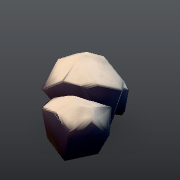
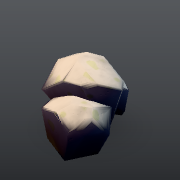
Lichen, Greystone as the default stone, and redrawn rock pictures
Lichen, under Surface, prints small pale patches into the stone picture. It
adds no faces, and it is 0 on saved rocks, so their pictures stay as they were.

New rocks start in Greystone, a slightly darker grey so they sit closer to the
brightness of the trees. Preset pictures are redrawn to match.

diff --git a/frontend/src/assets/shared/stone-texture.ts b/frontend/src/assets/shared/stone-texture.ts
@@ -33,6 +33,12 @@ const CRACK_DARK = 0.24
 const PIT_DEPTH = 1.6
 const CRACK_DEPTH = 0.6
 const RELIEF_STEEPNESS = 1.6
+/** Lichen: pale patches on bare stone, printed as a yellow-green tint that darkens the stone. */
+const LICHEN_CELLS = 7
+const LICHEN_TINT: readonly [number, number, number] = [0.8, 0.9, 0.5]
+/** Spots begin above LICHEN_FROM and are whole by LICHEN_TO; the Lichen setting scales them. */
+const LICHEN_FROM = 0.72
+const LICHEN_TO = 0.8
 
 interface Grain {
     /** How dark each pixel is, 0 to 1. */
@@ -41,6 +47,7 @@ interface Grain {
 }
 
 const grains = new Map<number, Grain>()
+const lichens = new Map<number, Float32Array>()
 const textures = new Map<string, THREE.DataTexture>()
 const reliefs = new Map<string, THREE.DataTexture>()
 
@@ -157,6 +164,18 @@ function makeGrain(size: number): Grain {
     return {darkness, heights}
 }
 
+/** Where lichen patches are, 0 to 1, from their own noise so the grain does not change. */
+function lichenOf(size: number): Float32Array {
+    let made = lichens.get(size)
+
+    if (!made) {
+        made = mottle(LICHEN_CELLS, createSeededRandom(TEXTURE_SEED + 7), size)
+        lichens.set(size, made)
+    }
+
+    return made
+}
+
 function grainOf(size: number): Grain {
     let made = grains.get(size)
 
@@ -183,10 +202,14 @@ function configured(texture: THREE.DataTexture): THREE.DataTexture {
 /** Grain as a slider stop, so each stop is made once. */
 const stopOf = (strength: number) => Math.round(Math.min(Math.max(strength, 0), 1) * 20) / 20
 
-/** The stone picture at a Grain strength, 0 to 1. Nearly white, to multiply the stone's colours. */
-export function getStoneTexture(strength: number, size = PICTURE_SIZE): THREE.DataTexture {
+/**
+ * The stone picture at a Grain strength, 0 to 1, with lichen at a strength too. Nearly white,
+ * to multiply the stone's colours. Lichen left at 0 is the picture it always was.
+ */
+export function getStoneTexture(strength: number, size = PICTURE_SIZE, lichen = 0): THREE.DataTexture {
     const stop = stopOf(strength)
-    const key = `${stop}:${size}`
+    const lichenStop = stopOf(lichen)
+    const key = lichenStop > 0 ? `${stop}:${size}:${lichenStop}` : `${stop}:${size}`
     const cached = textures.get(key)
 
     if (cached) {
@@ -194,6 +217,7 @@ export function getStoneTexture(strength: number, size = PICTURE_SIZE): THREE.Da
     }
 
     const {darkness} = grainOf(size)
+    const spots = lichenStop > 0 ? lichenOf(size) : null
     const data = new Uint8Array(size * size * 4).fill(255)
     // Mottling darkens and lightens about a middle, so the stone keeps its own value overall.
     const middle = 0.06
@@ -204,14 +228,22 @@ export function getStoneTexture(strength: number, size = PICTURE_SIZE): THREE.Da
         data[index * 4] = value
         data[index * 4 + 1] = value
         data[index * 4 + 2] = value
+
+        if (spots) {
+            const cover = smooth(Math.min(1, Math.max(0, (spots[index] - LICHEN_FROM) / (LICHEN_TO - LICHEN_FROM)))) * lichenStop
+
+            for (let channel = 0; channel < 3; channel++) {
+                data[index * 4 + channel] = Math.round(data[index * 4 + channel] * (1 - cover * (1 - LICHEN_TINT[channel])))
+            }
+        }
     }
 
     const texture = new THREE.DataTexture(data, size, size, THREE.RGBAFormat)
 
     texture.colorSpace = THREE.SRGBColorSpace
     // What it shows, so files in a set that share it can share a material.
-    texture.name = `stone_${Math.round(stop * 100)}`
-    texture.userData.atSize = (larger: number) => getStoneTexture(strength, larger)
+    texture.name = lichenStop > 0 ? `stone_${Math.round(stop * 100)}_lichen_${Math.round(lichenStop * 100)}` : `stone_${Math.round(stop * 100)}`
+    texture.userData.atSize = (larger: number) => getStoneTexture(strength, larger, lichen)
     configured(texture)
     textures.set(key, texture)
 

diff --git a/frontend/src/assets/rocks/cut-rock-generator.ts b/frontend/src/assets/rocks/cut-rock-generator.ts
@@ -88,7 +88,7 @@ const PALETTE: ChoiceParameter<RockPaletteId | OwnColours> = {
 }
 
 /** Controls a low-poly rock has no use for: its edges are hard and its faces flat. */
-const HIDDEN_WHEN_LOW_POLY: readonly string[] = ['edges', 'bend', 'grain', 'rounded', 'blend', 'dents', 'layers', 'overhang']
+const HIDDEN_WHEN_LOW_POLY: readonly string[] = ['edges', 'bend', 'grain', 'lichen', 'rounded', 'blend', 'dents', 'layers', 'overhang']
 /** Only these kinds lean out over their feet. */
 const OVERHANGING: readonly RockKind[] = ['outcrop', 'cliff']
 
@@ -117,9 +117,11 @@ const DENTS = number(SHAPE, 'dents', 'Dents', 'Soft hollows worn into some of th
 const LAYERS = number(SHAPE, 'layers', 'Layers', 'Bands of stone laid one on another. A cliff stacks in courses with a ledge on top, and every rock shows faint stripes.', 0, 1, 0.05, 0.4)
 const OVERHANG = number(SHAPE, 'overhang', 'Overhang', 'How far an outcrop or cliff leans out over its feet, on the side that faces you.', 0, 1, 0.05, 0.3)
 const RUBBLE = number(SHAPE, 'rubble', 'Rubble', 'Small stones of the same rock lying round its foot.', 0, 1, 0.05, 0)
+/** On for new rocks. A saved file without it opens with none, so a saved rock looks as it did. */
+const LICHEN = number(SURFACE, 'lichen', 'Lichen', 'Small pale patches of lichen on bare stone, seen up close.', 0, 1, 0.05, 0.3)
 const GRAIN = number(SURFACE, 'grain', 'Grain', 'Fine speckle, small pits and hairline cracks in the stone, seen up close.', 0, 1, 0.05, 0.6)
 
-const specs: readonly ParameterSpec[] = [BUILD, KIND, WIDTH, HEIGHT, DEPTH, CHUNKS, FACES, CUTS, LAYERS, OVERHANG, DENTS, RUBBLE, EDGES, ROUNDED, BLEND, BEND, VARIATION, GRAIN, PALETTE, ...STONE.specs, SNOW, MOSS, MOSS_FROM, WET, CRACKS, CRUMBLE]
+const specs: readonly ParameterSpec[] = [BUILD, KIND, WIDTH, HEIGHT, DEPTH, CHUNKS, FACES, CUTS, LAYERS, OVERHANG, DENTS, RUBBLE, EDGES, ROUNDED, BLEND, BEND, VARIATION, GRAIN, LICHEN, PALETTE, ...STONE.specs, SNOW, MOSS, MOSS_FROM, WET, CRACKS, CRUMBLE]
 
 export interface CutRockParameters extends Partial<OwnColourValues<typeof STONE_ROWS>> {
     readonly build: RockBuild
@@ -140,6 +142,7 @@ export interface CutRockParameters extends Partial<OwnColourValues<typeof STONE_
     readonly crumble: number
     readonly variation: number
     readonly grain: number
+    readonly lichen: number
     readonly rounded: number
     readonly blend: number
     readonly rubble: number
@@ -166,6 +169,7 @@ export const cutRockDefaults: CutRockParameters = {
     crumble: CRUMBLE.default,
     variation: VARIATION.default,
     grain: GRAIN.default,
+    lichen: LICHEN.default,
     rounded: ROUNDED.default,
     blend: BLEND.default,
     rubble: RUBBLE.default,
@@ -192,6 +196,7 @@ const cutRockSchema = z.object({
     crumble: numberSchema(CRUMBLE),
     variation: numberSchema(VARIATION),
     grain: numberSchema(GRAIN),
+    lichen: numberSchema(LICHEN),
     rounded: numberSchema(ROUNDED),
     blend: numberSchema(BLEND),
     rubble: numberSchema(RUBBLE),
@@ -257,9 +262,13 @@ export const cutRockBodyGenerator: PartGenerator<CutRockBodyParameters> = {
             material: 'painted',
             role: 'solid',
             surface: wetSurface(
-                rock.build === 'low-poly' || rock.grain <= 0
+                rock.build === 'low-poly' || (rock.grain <= 0 && rock.lichen <= 0)
                     ? {vertexColors: true}
-                    : {vertexColors: true, map: getStoneTexture(rock.grain), normalMap: getStoneRelief(rock.grain)},
+                    : {
+                          vertexColors: true,
+                          map: getStoneTexture(rock.grain, undefined, rock.lichen),
+                          ...(rock.grain > 0 ? {normalMap: getStoneRelief(rock.grain)} : {}),
+                      },
                 rock.wet,
             ),
         }

diff --git a/frontend/src/tests/lichen.test.ts b/frontend/src/tests/lichen.test.ts
@@ -1,0 +1,77 @@
+import {describe, expect, it} from 'vitest'
+import {cutRockBodyGenerator, cutRockDefaults, cutRockGenerator, type CutRockParameters} from '../assets/rocks/cut-rock-generator'
+import {getStoneTexture} from '../assets/shared/stone-texture'
+import {findPreset} from '../assets/trees/presets'
+import {parseProject, serializeProject} from '../core/project/project-document'
+import {createSceneFromPreset} from '../core/scene/initial-scene'
+
+const SEED = findPreset('boulder')!.seed
+const boulder = (changes: Partial<CutRockParameters> = {}): CutRockParameters => ({...(findPreset('boulder')!.parameters as unknown as CutRockParameters), ...changes})
+
+function bodyOf(rock: CutRockParameters) {
+    return cutRockBodyGenerator.generate(cutRockBodyGenerator.validate({rock, seed: SEED}).parameters, {detail: 1} as never)
+}
+
+describe('lichen on rocks', () => {
+    it('is on for new rocks at 0.3, and hidden on a low-poly one', () => {
+        expect(cutRockDefaults.lichen).toBe(0.3)
+
+        const keys = (build: string) => cutRockGenerator.shownControls!({...cutRockDefaults, build}).map((spec) => spec.key)
+
+        expect(keys('painted')).toContain('lichen')
+        expect(keys('low-poly')).not.toContain('lichen')
+    })
+
+    it('leaves the stone picture as it was at 0', () => {
+        expect(getStoneTexture(0.6, undefined, 0)).toBe(getStoneTexture(0.6))
+    })
+
+    it('prints yellow-green patches on the stone once it is on', () => {
+        const plain = getStoneTexture(0.6).image.data as Uint8Array
+        const lichened = getStoneTexture(0.6, undefined, 1).image.data as Uint8Array
+        let patches = 0
+        let changed = 0
+
+        for (let index = 0; index < plain.length; index += 4) {
+            if (lichened[index] !== plain[index] || lichened[index + 2] !== plain[index + 2]) {
+                changed++
+            }
+
+            // Yellow-green: blue is well below red, which bare grey stone never is.
+            patches += lichened[index + 2] < lichened[index] * 0.8 ? 1 : 0
+        }
+
+        expect(patches).toBeGreaterThan(0)
+        expect(changed / (plain.length / 4)).toBeLessThan(0.5)
+        expect(getStoneTexture(0.6, undefined, 1).name).not.toBe(getStoneTexture(0.6).name)
+    })
+
+    it('adds no faces, and puts the picture on a rock with no grain', () => {
+        expect(bodyOf(boulder({lichen: 1})).geometry.index!.count).toBe(bodyOf(boulder({lichen: 0})).geometry.index!.count)
+
+        const bare = bodyOf(boulder({grain: 0, lichen: 0.6}))
+
+        expect(bare.geometry.getAttribute('uv')).toBeDefined()
+        expect(bare.surface?.map).toBeDefined()
+        expect(bare.surface?.normalMap).toBeUndefined()
+    })
+
+    it('opens a rock saved before it with none, so it looks as it did', () => {
+        const document = JSON.parse(serializeProject({scene: createSceneFromPreset('boulder'), style: 'low-poly'})) as {
+            scene: {assets: {parameters: Record<string, unknown>; components: {parameters: {rock?: Record<string, unknown>}}[]}[]}
+        }
+
+        for (const asset of document.scene.assets) {
+            delete asset.parameters.lichen
+
+            for (const component of asset.components) {
+                delete component.parameters.rock?.lichen
+            }
+        }
+
+        const [asset] = parseProject(JSON.stringify(document)).scene.assets
+
+        expect(asset.parameters.lichen).toBe(0)
+        expect((asset.components[0].parameters as {rock: {lichen: number}}).rock.lichen).toBe(0)
+    })
+})

diff --git a/frontend/src/assets/rocks/rock-mesh.ts b/frontend/src/assets/rocks/rock-mesh.ts
@@ -36,6 +36,8 @@ export interface RockSurface {
     readonly mossFrom?: MossFrom
     /** How strong the stone picture is, 0 to 1. Left out or 0, no picture, and the mesh is as it was. */
     readonly grain?: number
+    /** How much lichen the stone picture shows, 0 to 1. Left out or 0, none. Lichen needs the picture, so the rock is pictured. */
+    readonly lichen?: number
     /**
      * How far the light follows a smooth rounded body around each chunk, not its flat
      * faces, 0 to 1. Left out or 0, the rock is built as it was before it existed.
@@ -413,7 +415,7 @@ function meshAt(plan: RockPlan, surface: RockSurface, seed: number, detail: numb
     const colors: number[] = []
     const uvs: number[] = []
     const indices: number[] = []
-    const pictured = (surface.grain ?? 0) > 0
+    const pictured = (surface.grain ?? 0) > 0 || (surface.lichen ?? 0) > 0
 
     const paint = rockPainter(plan, chunks, surface, seed)
 

diff --git a/frontend/src/core/project/project-document.ts b/frontend/src/core/project/project-document.ts
@@ -262,8 +262,8 @@ export function parseProject(text: string): LoadedProject {
  * file version stays as it is and older builds still open what this one saves.
  */
 const EARLIER_LOOKS: Readonly<Record<string, Readonly<Record<string, number>>>> = {
-    // Rocks gained Grain after 0.4.2, then Rounded light, Blend, Dents, Layers and Overhang.
-    'cut-rock': {grain: 0, rounded: 0, blend: 0, dents: 0, layers: 0, overhang: 0},
+    // Rocks gained Grain after 0.4.2, then Rounded light, Blend, Dents, Layers, Overhang and Lichen.
+    'cut-rock': {grain: 0, rounded: 0, blend: 0, dents: 0, layers: 0, overhang: 0, lichen: 0},
 }
 
 function filledIn(values: unknown, earlier: Readonly<Record<string, number>>): unknown {

diff --git a/frontend/src/assets/style/palettes.ts b/frontend/src/assets/style/palettes.ts
@@ -174,7 +174,7 @@ export const ROCK_RAMPS: Readonly<Record<RockPaletteId, readonly string[]>> = {
     frost: ['#3c5583', '#7c9fc9', '#bcd6ec', '#f4fbff'],
     // A warm grey, the commonest stone in a stylised forest, and the one new rocks start with.
     // Last, so own colours saved with a row missing still fill it from Lavender.
-    greystone: ['#434445', '#747677', '#a9aaaa', '#e4e5e4'],
+    greystone: ['#363738', '#5f6162', '#8a8c8c', '#b9baba'],
 }
 
 /** Moss on any stone, shadow to highlight. */

diff --git a/frontend/src/viewport/scene/meadow-scenery.ts b/frontend/src/viewport/scene/meadow-scenery.ts
@@ -124,7 +124,7 @@ export function createMeadowScenery(): MeadowScenery {
     const stone = new THREE.MeshStandardMaterial({
         vertexColors: true,
         roughness: 1,
-        map: getStoneTexture(cutRockDefaults.grain),
+        map: getStoneTexture(cutRockDefaults.grain, undefined, cutRockDefaults.lichen),
         normalMap: getStoneRelief(cutRockDefaults.grain),
     })
     const zero = new THREE.Matrix4().makeScale(0, 0, 0)

diff --git a/frontend/src/tests/stone-grain.test.ts b/frontend/src/tests/stone-grain.test.ts
@@ -29,7 +29,8 @@ describe('grain on rocks', () => {
     })
 
     it('leaves the stone exactly as it was when there is none', () => {
-        const plain = rockPart({grain: 0})
+        // Lichen is on by default, so it is turned off here to leave a rock with no picture at all.
+        const plain = rockPart({grain: 0, lichen: 0})
         const grained = rockPart({grain: 0.6})
 
         expect(plain.surface?.map).toBeUndefined()

diff --git a/docs/terminology.md b/docs/terminology.md
@@ -47,6 +47,7 @@ agree on the term first, or rethink the control.
 | Strata, courses | **Layers** | On rocks: bands of stone laid one on another; a cliff stacks in courses with a ledge on top |
 | Undercut, cantilever | **Overhang** | On outcrops and cliffs: how far they lean out over their feet |
 | Scatter, debris | **Rubble** | On rocks: small stones lying round the foot |
+| Lichen, moss on bare stone | **Lichen** | On rocks: small pale patches on bare stone, seen up close |
 | Detail texture, normal map, micro detail | **Grain** | On rocks: fine speckle, pits and hairline cracks seen up close. Never "texture" or "normal map" |
 | End cap, cross-section texture | **Cut ends** | The sawn faces of a stump, log or branch, with their rings |
 | Texture resolution | **Picture size** | In Export: 512, 1024 or 2048. Never "texture" or "resolution" |
